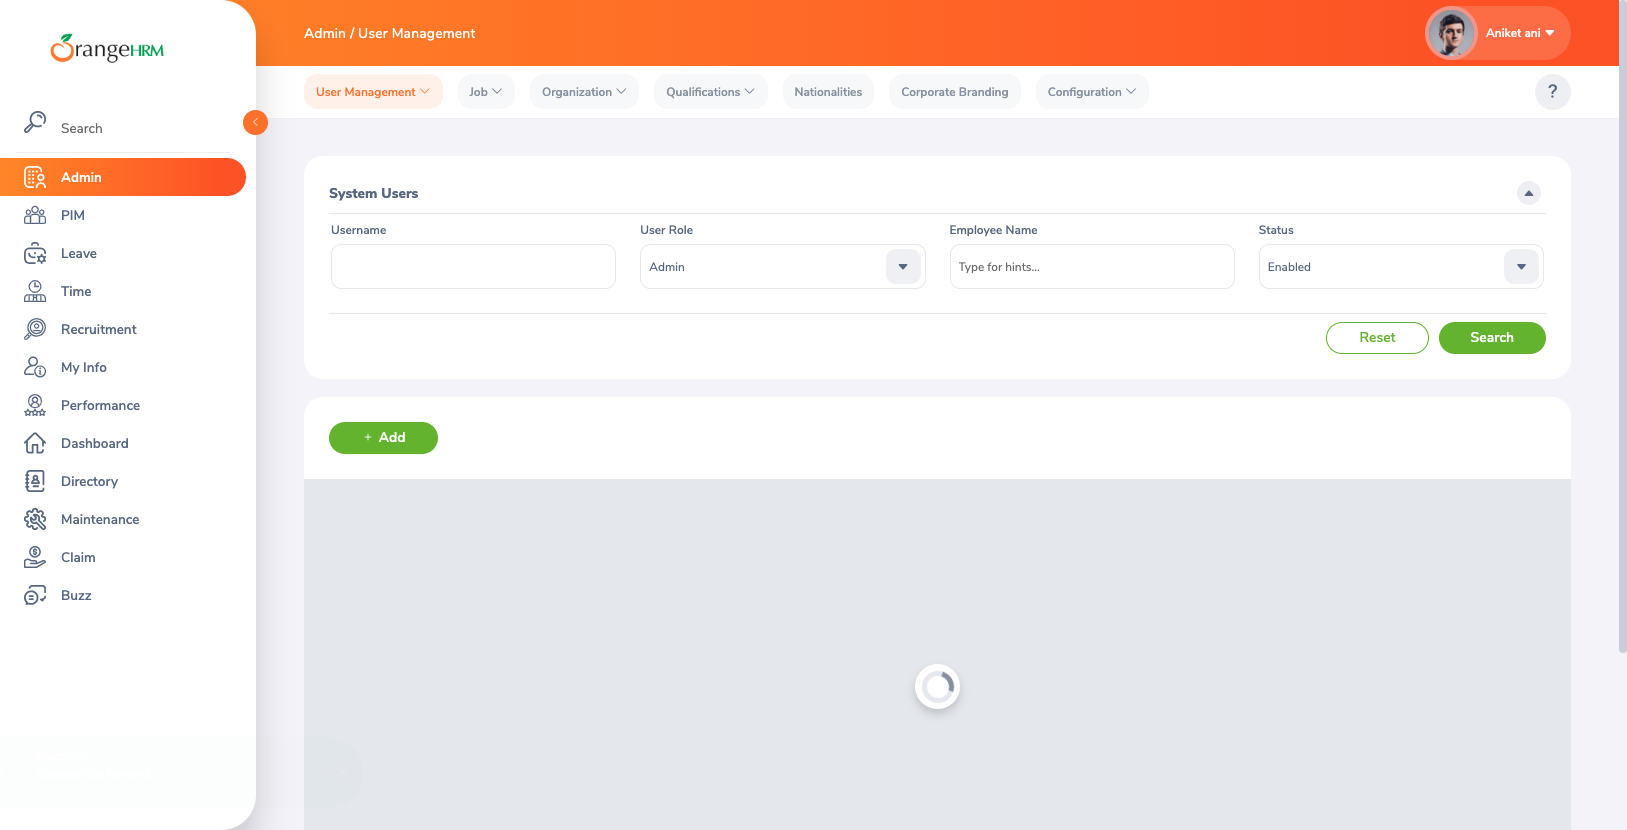
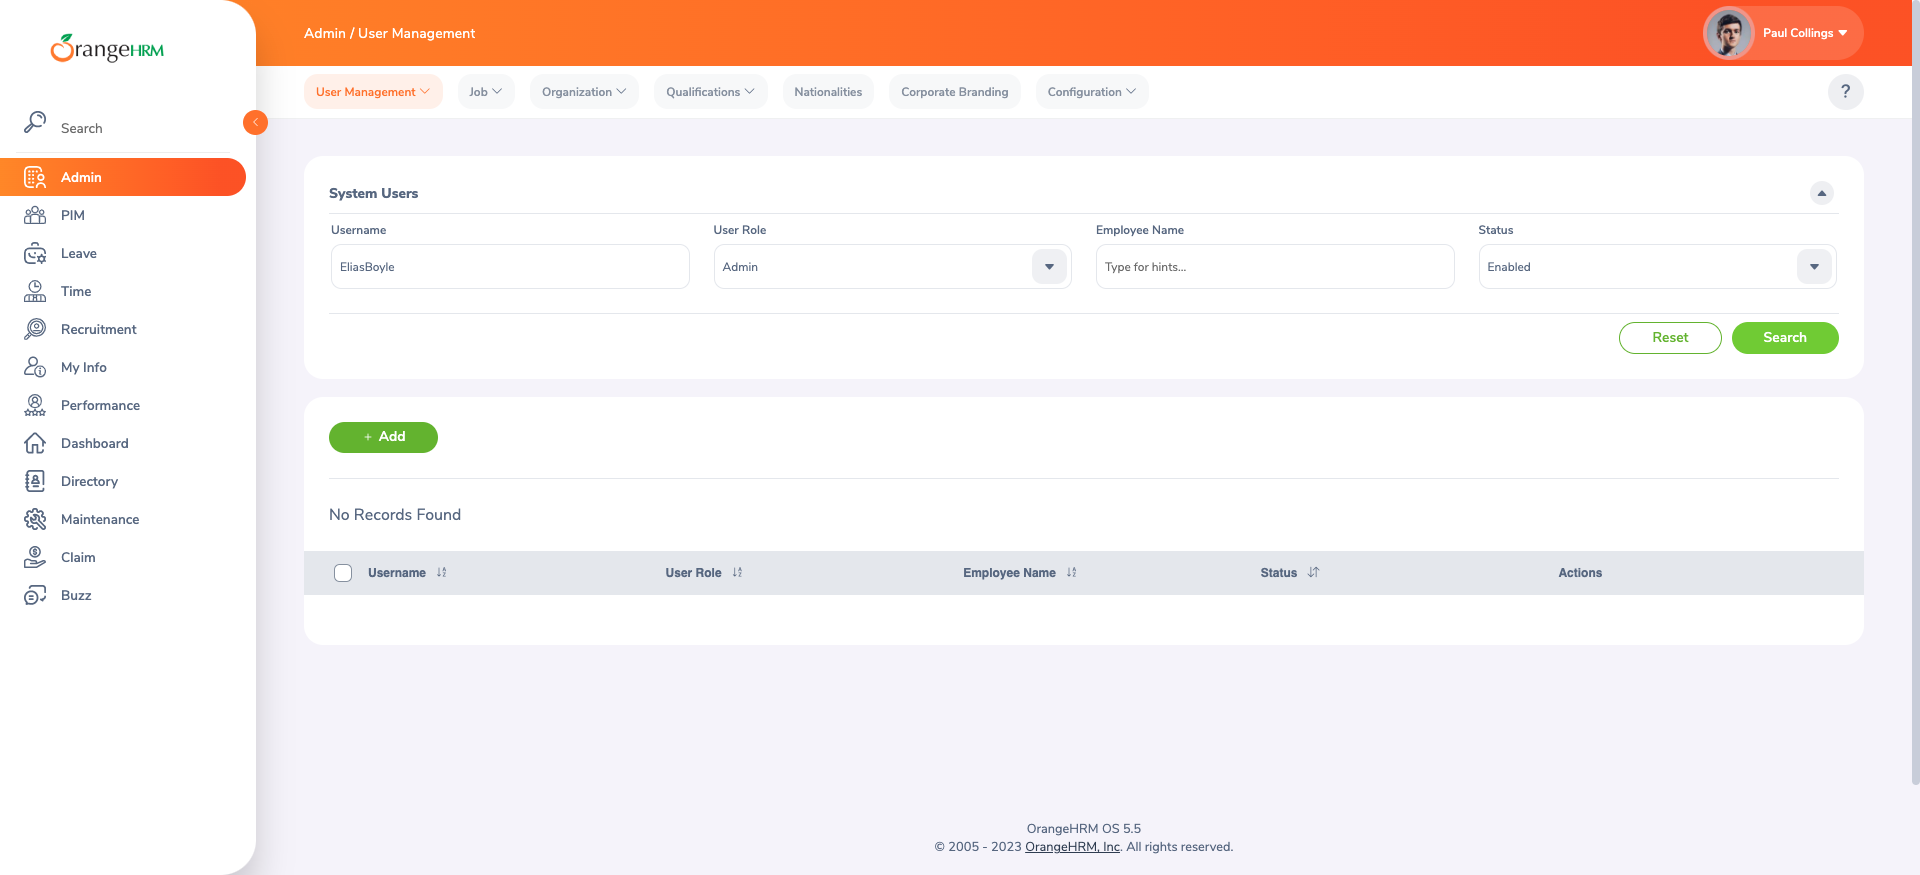
INclusão do Cenario de Cadastrar Admin

diff --git a/features/step_definitions/accounts/accounts_steps.rb b/features/step_definitions/accounts/accounts_steps.rb
@@ -1,33 +1,66 @@
 Quando('efetuar a pesquisa de usuários com perfil Admin') do
-  orangehrmlive_accounts_pages.wait_until_ul_menu_account_visible
-  orangehrmlive_accounts_pages.wait_until_li_menu_admin_account_visible
-  orangehrmlive_accounts_pages.li_menu_admin_account.click
-  orangehrmlive_accounts_pages.wait_until_div_filter_account_visible
-  orangehrmlive_accounts_pages.wait_until_div_lists_select_filters_account_visible
-  orangehrmlive_accounts_pages.div_lists_select_filters_account.first.click
-  orangehrmlive_accounts_pages.div_select_filters_account[1].click
-  expect(orangehrmlive_accounts_pages.div_lists_select_filters_account.first.text).to eql 'Admin'
-  orangehrmlive_accounts_pages.div_lists_select_filters_account.last.click
-  orangehrmlive_accounts_pages.div_select_filters_account[1].click
-  expect(orangehrmlive_accounts_pages.div_lists_select_filters_account.last.text).to eql 'Enabled'
-  orangehrmlive_accounts_pages.button_admin_search_account.click
+  step 'acessar o menu Admin'
+  step 'validar que o cadastro é realizado com sucesso'
+  orangehrmlive_accounts_pages.wait_until_div_result_role_account_visible
+  expect(orangehrmlive_accounts_pages.div_result_role_account.text).to eql @user_account['role']
 end
 
 Então('validar que o consulta é realizado com sucesso') do
-  orangehrmlive_accounts_pages.wait_until_div_admin_result_role_account_visible
-  expect(orangehrmlive_accounts_pages.div_admin_result_role_account.text).to eql 'Admin'
+  orangehrmlive_accounts_pages.wait_until_div_result_role_account_visible
+  expect(orangehrmlive_accounts_pages.div_result_role_account.text).to eql @user_account['role']
 end
 
 Quando('selecionar o perfil Admin para a exclusão') do
   step 'efetuar a pesquisa de usuários com perfil Admin'
   step 'validar que o consulta é realizado com sucesso'
-  orangehrmlive_accounts_pages.wait_until_div_admin_delete_account_visible
-  orangehrmlive_accounts_pages.div_admin_delete_account.click
+  orangehrmlive_accounts_pages.wait_until_i_admin_delete_account_visible
+  orangehrmlive_accounts_pages.i_admin_delete_account.click
   orangehrmlive_accounts_pages.wait_until_div_admin_dialog_delete_account_visible
   orangehrmlive_accounts_pages.wait_until_button_admin_confirme_delete_account_visible
   orangehrmlive_accounts_pages.button_admin_confirme_delete_account.click
+  expect(page).to have_content("Success")
 end
 
 Então('validar que a exclusão é realizado com sucesso') do
   expect(orangehrmlive_accounts_pages.div_admin_confirme_action_success_account.visible?).to eql true
+end
+
+
+Quando('informar os dados do perfil Admin para cadastro') do
+  step 'acessar o menu Admin'
+  @user_account = DATA_WEB['orangehrmlive']['login']
+  orangehrmlive_accounts_pages.i_button_add_user_account.click
+  orangehrmlive_accounts_pages.wait_until_div_form_add_user_account_visible
+  orangehrmlive_accounts_pages.select_role_admin
+  orangehrmlive_accounts_pages.insert_employee(@user_account['employee'])
+  @user_account['username'] = Faker::Name.name.split(' ').join
+  orangehrmlive_accounts_pages.select_status_user
+  orangehrmlive_accounts_pages.wait_until_input_username_account_visible
+  orangehrmlive_accounts_pages.input_username_account.set @user_account['username']
+  orangehrmlive_accounts_pages.insert_and_confirme_password(@user_account['password'])
+  orangehrmlive_accounts_pages.button_save_add_account.click
+end
+
+Então('validar que o cadastro é realizado com sucesso') do
+  orangehrmlive_accounts_pages.wait_until_div_filter_account_visible
+  orangehrmlive_accounts_pages.wait_until_div_input_username_search_account_visible
+  orangehrmlive_accounts_pages.div_input_username_search_account.set @user_account['username']
+  orangehrmlive_accounts_pages.select_filter_search_role_account
+  orangehrmlive_accounts_pages.select_filter_search_status_account
+  orangehrmlive_accounts_pages.button_admin_search_account.click
+  orangehrmlive_accounts_pages.wait_until_div_result_username_account_visible
+  expect(orangehrmlive_accounts_pages.div_result_username_account.text).to eql @user_account['username']
+end
+
+E('acessar o menu Admin') do 
+  orangehrmlive_accounts_pages.wait_until_ul_menu_account_visible
+  orangehrmlive_accounts_pages.wait_until_li_menu_admin_account_visible
+  orangehrmlive_accounts_pages.li_menu_admin_account.click
+  orangehrmlive_accounts_pages.wait_until_div_filter_account_visible
+  expect(orangehrmlive_accounts_pages.div_filter_account.visible?).to eql true
+end
+
+Dado('que tenha usuário cadastro com perfil Admin') do
+  step 'que tenha realizado o login com sucesso'
+  step 'informar os dados do perfil Admin para cadastro'
 end

diff --git a/features/pages/account/accounts_page.rb b/features/pages/account/accounts_page.rb
@@ -14,9 +14,72 @@ module Orangehrmlive
     elements :div_select_filters_account, 'div.oxd-select-option'
     element :button_admin_search_account, 'button[type="submit"]'
     element :div_admin_result_role_account, 'div.oxd-table-card:nth-child(2) > div > div:nth-child(3)'
-    element :div_admin_delete_account, 'div.oxd-table-card:nth-child(2) > div > div:nth-child(6) > div .oxd-icon.bi-trash'
+    element :i_admin_delete_account, 'i.oxd-icon.bi-trash'
     element :div_admin_dialog_delete_account, '.oxd-dialog-container-default--inner'
     element :button_admin_confirme_delete_account, '.oxd-icon.bi-trash.oxd-button-icon'
     element :div_admin_confirme_action_success_account, '.oxd-toast-container.oxd-toast-container--bottom'
+
+    element :i_button_add_user_account, '.oxd-icon.bi-plus.oxd-button-icon'
+    element :div_form_add_user_account, '.orangehrm-card-container'
+    elements :div_selects_add_user_account, '.oxd-select-text--after'
+    element :div_dropdown_list_role_account, 'div.oxd-select-dropdown.--positon-bottom'
+    elements :div_select_add_user_account, '.oxd-select-option'
+    elements :div_select_add_employee_account, 'div.oxd-autocomplete-dropdown.--positon-bottom'
+    element :input_employee_account, 'input[placeholder="Type for hints..."]'
+    element :input_username_account, 'div > div:nth-child(4) > div > div:nth-child(2) > input'
+    elements :input_passwords_add_user_account, 'input[type="password"]'
+    element :button_save_add_account, 'button[type="submit"]'
+    element :div_input_username_search_account, 'div[class=""] > input.oxd-input.oxd-input--active'
+    element :div_result_username_account, 'div.oxd-table-body > div > div > div:nth-child(2) > div'
+    element :div_result_role_account, 'div.oxd-table-body > div > div > div:nth-child(3) > div'
+
+    def insert_and_confirme_password(pass)
+      input_passwords_add_user_account.first.set pass
+      input_passwords_add_user_account.last.set  pass
+    end
+
+    def select_filter_search_role_account()
+      wait_until_div_lists_select_filters_account_visible
+      div_lists_select_filters_account.last.click
+      div_select_filters_account[1].click
+    end
+
+    def select_filter_search_status_account()
+      wait_until_div_lists_select_filters_account_visible
+      div_lists_select_filters_account.first.click
+      div_select_filters_account[1].click
+      end
+
+    def insert_employee(employee)
+      input_employee_account.click
+      input_employee_account.set employee
+      wait_until_div_select_add_employee_account_visible
+      div_select_add_employee_account.each do |item|
+        sleep 2
+        break item.click if item.text == employee
+      end
+      div_select_add_employee_account.first.click
+      wait_until_div_select_add_employee_account_invisible
+    end
+
+    def select_role_admin()
+      wait_until_div_selects_add_user_account_visible
+      div_selects_add_user_account.first.click
+      wait_until_div_dropdown_list_role_account_visible
+      wait_until_div_select_add_user_account_visible
+      div_select_add_user_account.each do |item|
+        break item.click if item.text == "Admin"
+      end
+    end
+
+    def select_status_user()
+      wait_until_div_selects_add_user_account_visible
+      div_selects_add_user_account.last.click
+      wait_until_div_dropdown_list_role_account_visible
+      wait_until_div_select_add_user_account_visible
+      div_select_add_user_account.each do |item|
+        break item.click if item.text == "Enabled"
+      end
+    end
   end
 end

diff --git a/features/support/env.rb b/features/support/env.rb
@@ -1,6 +1,7 @@
 require 'capybara'
 require 'capybara/dsl'
 require 'capybara/cucumber'
+require 'faker'
 require 'pry'
 require 'rspec'
 require 'selenium-webdriver'
